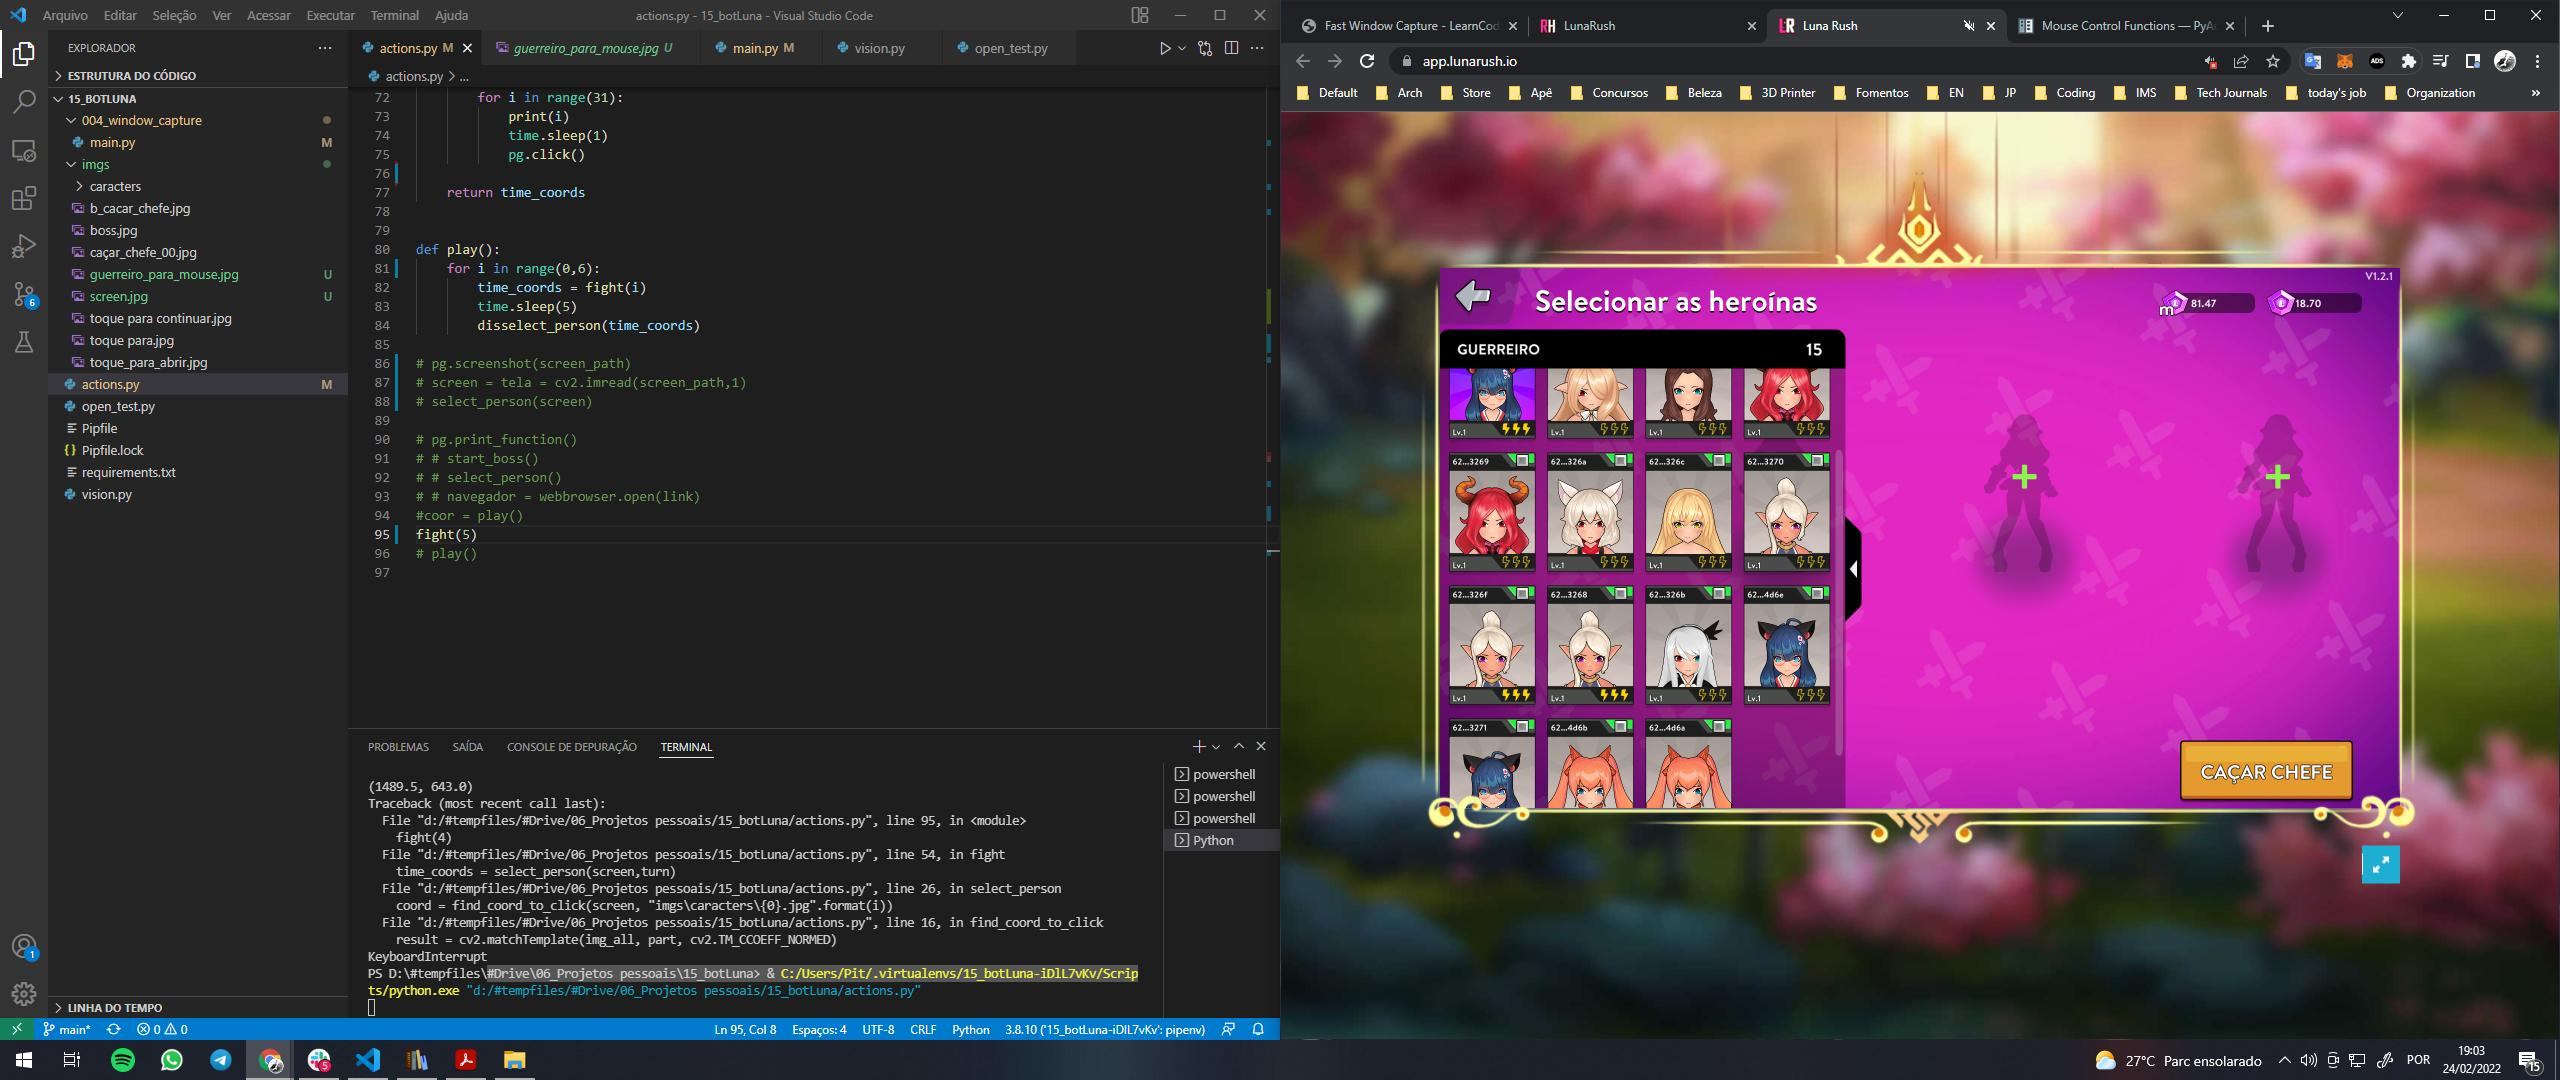
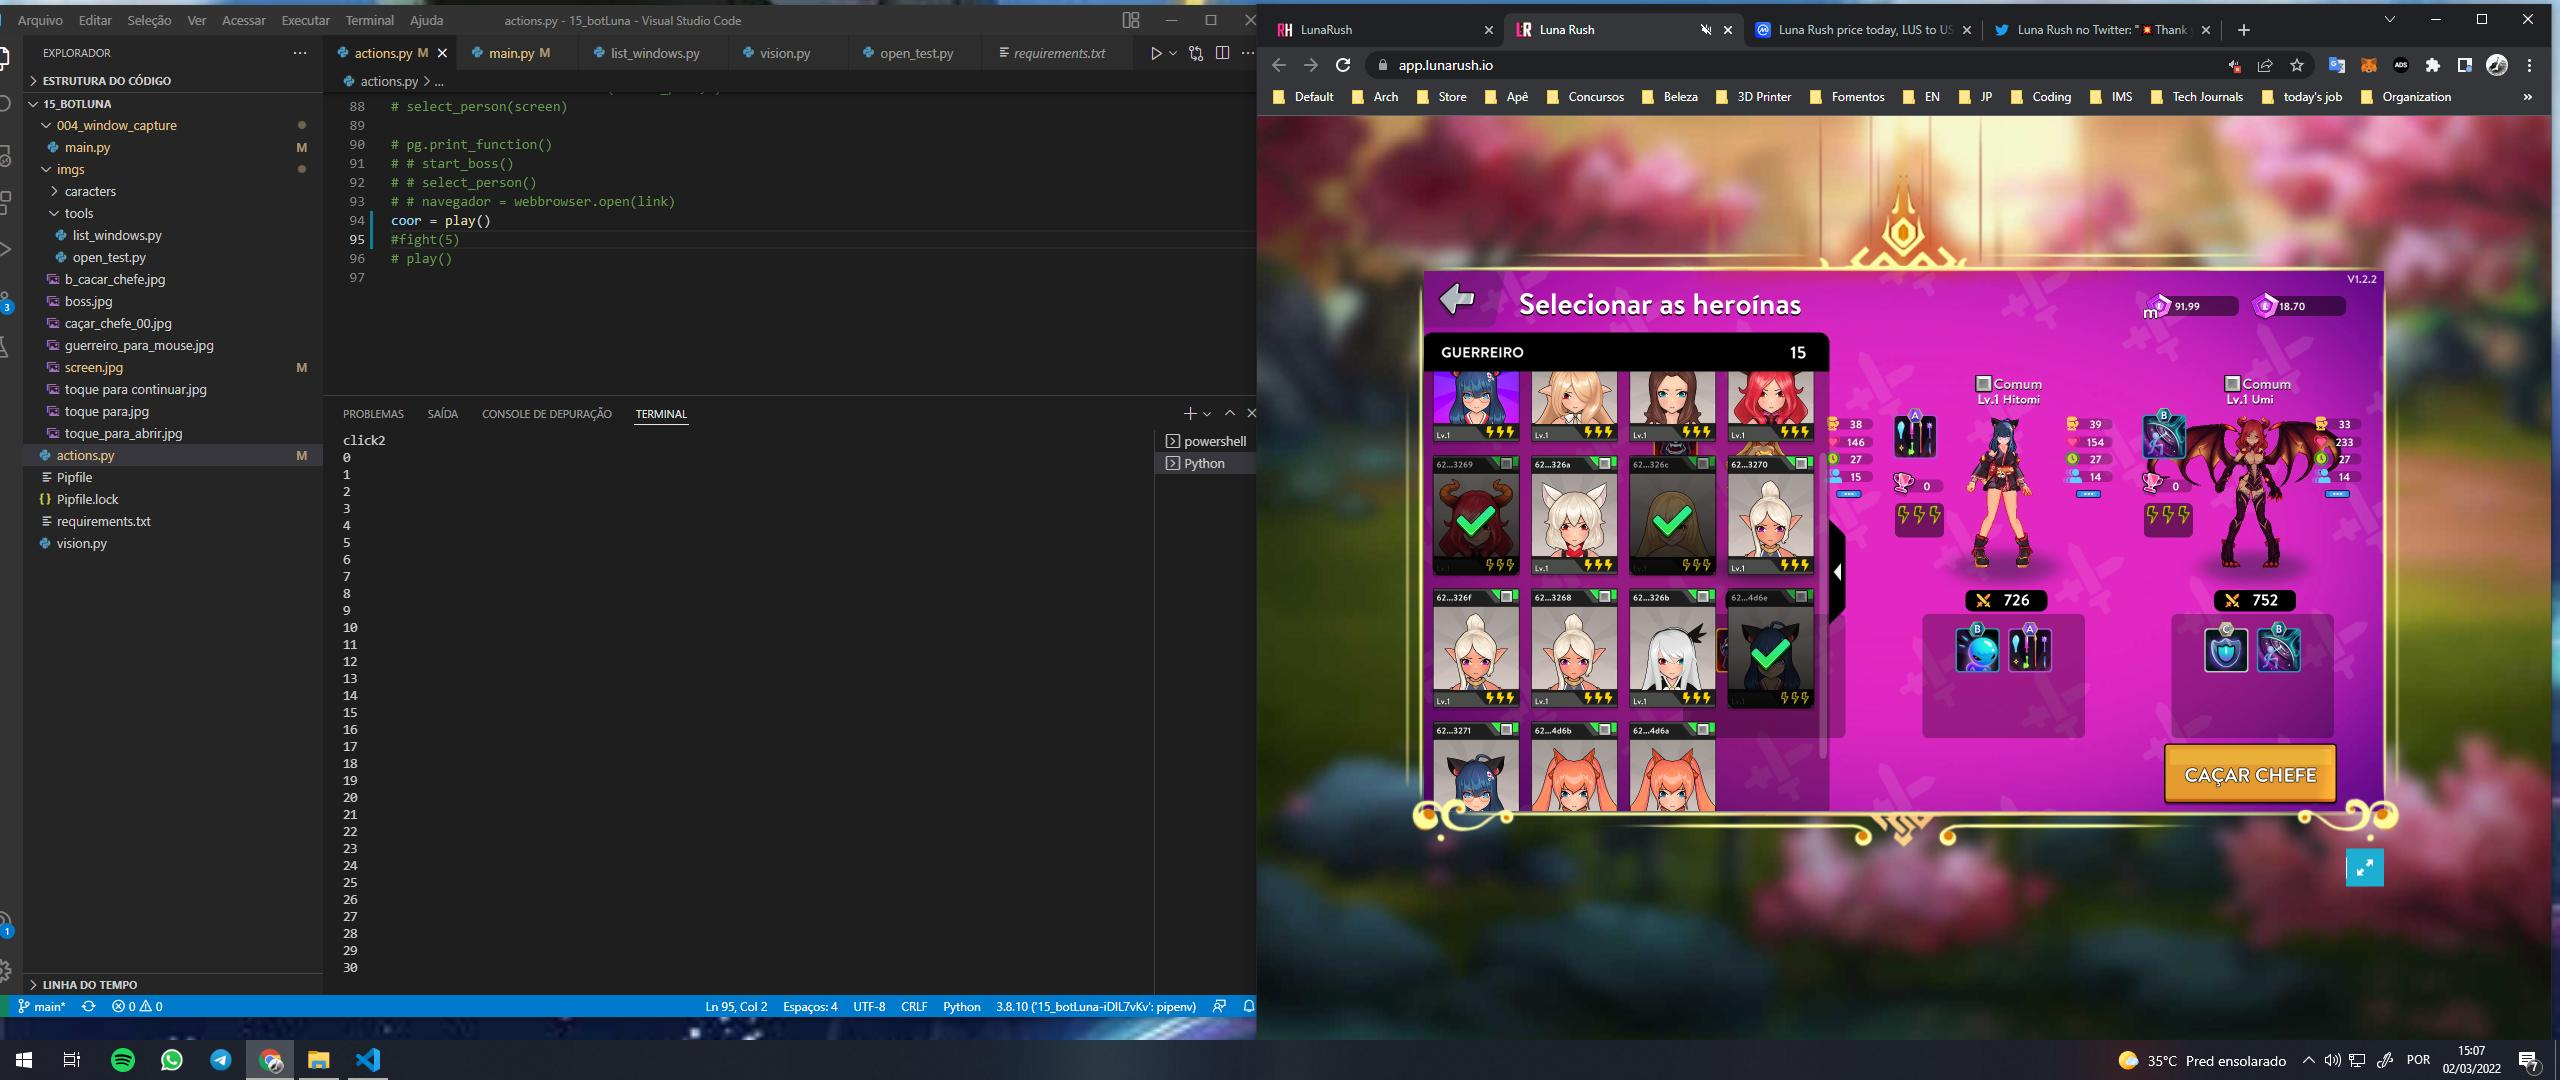
Add change_boss

diff --git a/actions.py b/actions.py
@@ -1,3 +1,4 @@
+from calendar import c
 import os
 import time
 import webbrowser
@@ -76,6 +77,22 @@ def fight(turn):
 
     return time_coords
 
+def change_boss(screen):
+        part= cv2.imread(r"imgs\boss.jpg",1)      
+        result = cv2.matchTemplate(screen, part, cv2.TM_CCOEFF_NORMED)
+        min_val, max_val, min_loc, max_loc = cv2.minMaxLoc(result)
+        img_w,img_h = part.shape[1], part.shape[0]
+        
+        if max_val > .25:
+            co = find_coord_to_click(screen,r"imgs\boss.jpg")
+            pg.moveTo(co)
+            print("ok")
+
+    
+
+        # if find_coord_to_click() 
+        #     print("Boss")
+
 
 def play():
     for i in range(0,6):
@@ -83,14 +100,11 @@ def play():
         time.sleep(5)
         disselect_person(time_coords)
 
-# pg.screenshot(screen_path)
-# screen = tela = cv2.imread(screen_path,1)
-# select_person(screen)
-    
-# pg.print_function()
-# # start_boss()
-# # select_person()
-# # navegador = webbrowser.open(link)
-#coor = play()
-fight(5)
+
+# mouse_scroll()
+screen = tela = cv2.imread(screen_path,1) 
+# coor =select_person(screen,3)
+# disselect_person(coor)
+#fight(4)
 # play()
+change_boss(screen)

diff --git a/004_window_capture/main.py b/004_window_capture/main.py
@@ -1,5 +1,6 @@
 #from curses import window
 import os
+from tkinter import W
 
 from PIL import ImageGrab
 import cv2 as cv
@@ -24,7 +25,16 @@ def myscream():
     
     time_loop = time()
     while(True):
-        screenshot =  ImageGrab.grab()
+        w= 1920
+        h=1080
+        hwnd =  win32gui.FindWindow(None, "LunaRush - Google Chrome" )
+
+        #get the window image data
+        wDC = win32gui.GetWindow(hwnd)
+        dcObj = win32ui.CreateDCFromHandle(wDC)
+        dataBitMap = win32ui.CreateBitmap()
+        dataBitMap.CreateC
+
         screenshot =  np.array(screenshot)
         screenshot = cv.cvtColor(screenshot, cv.COLOR_RGB2BGR)
         
@@ -39,3 +49,5 @@ def myscream():
 
 
     print('done')
+
+    
